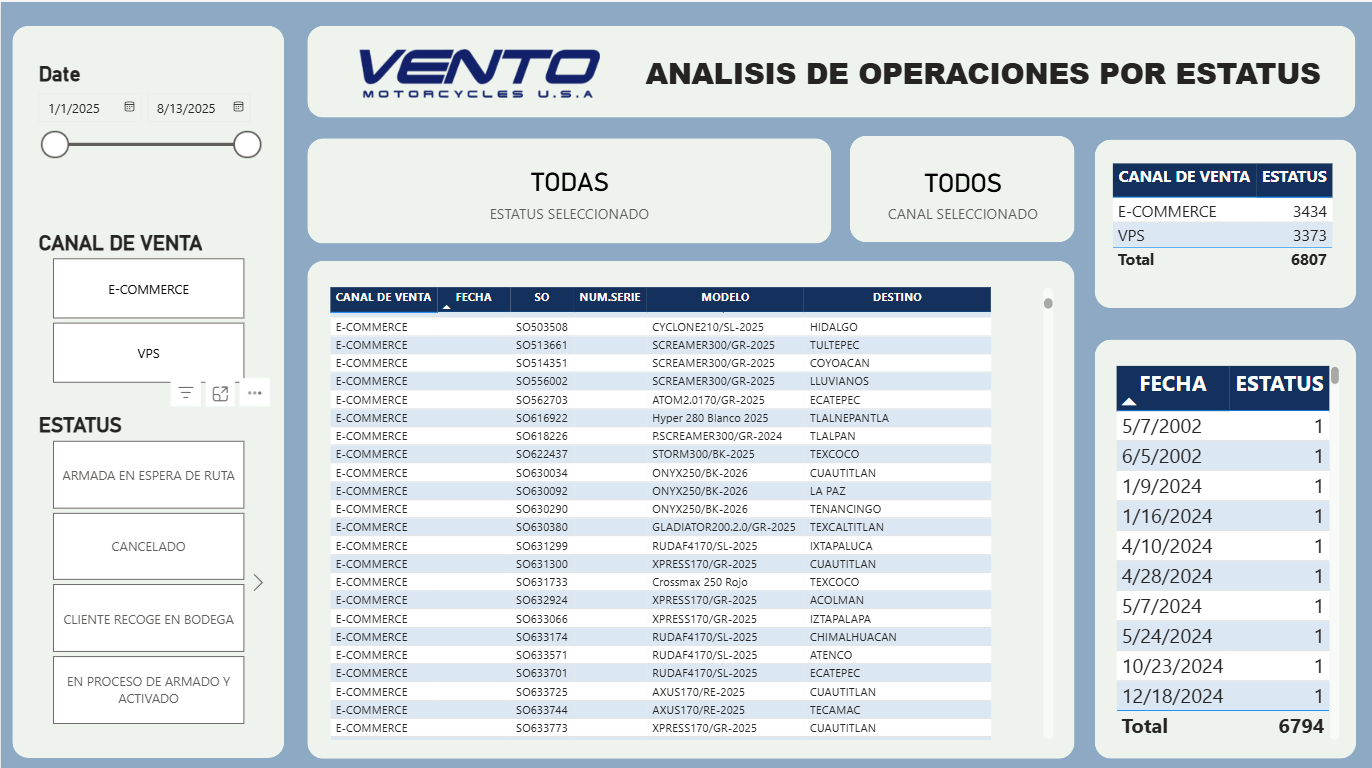
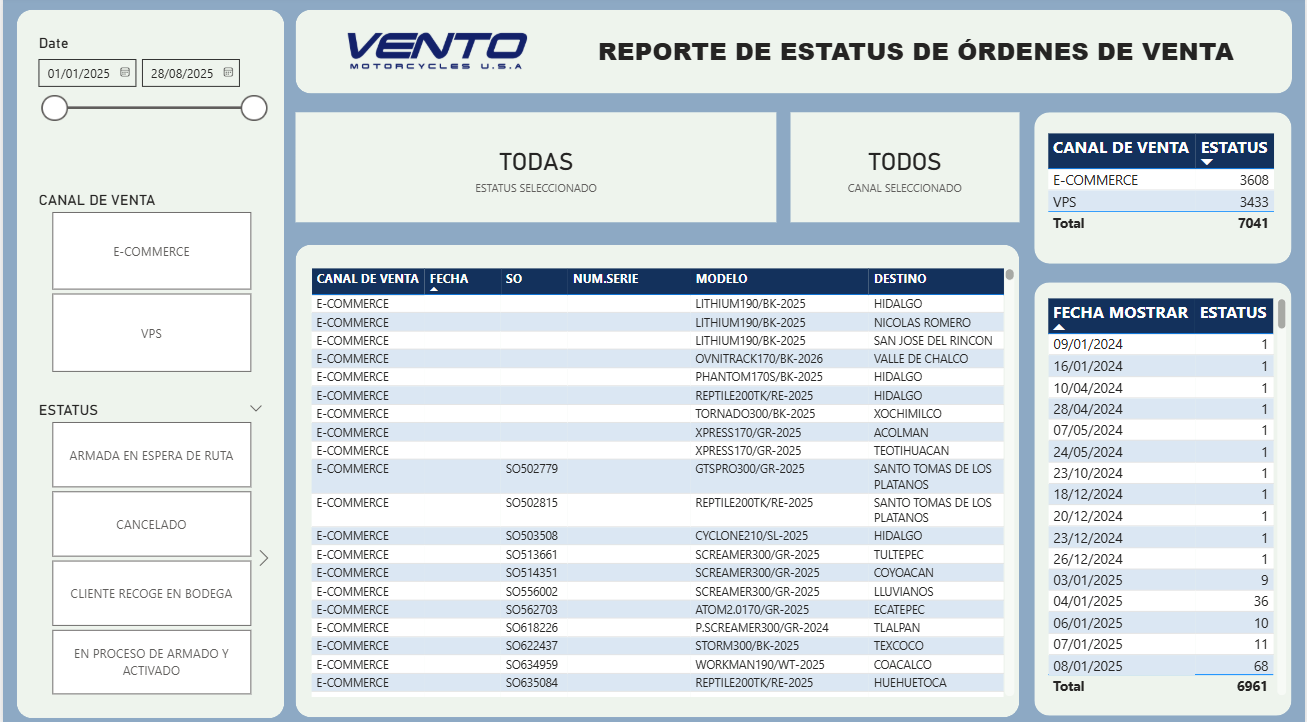
Actualizado

diff --git a/Menu/Menu Principal/indicadores.html b/Menu/Menu Principal/indicadores.html
@@ -107,7 +107,7 @@
         <div class="custom-card">
             <img src="../../Imagenes/Informe1 - AOPE.png" alt="Imagen de ejemplo">
             <div class="card-body">
-              <h5 class="card-title">Reporte de operaciones</h5>
+              <h5 class="card-title">Reporte de estatus de órdenes de venta</h5>
               <p class="card-text">
                 Reporte que permite revisar la cantidad de ordenes de venta (SO) y su estatus, con la finalidad de darle seguimiento a los días de atraso de las unidades.
               </p>
@@ -118,7 +118,7 @@
         <!-- Reporte de ordenes de traslado por estatus-->
         <div class="custom-card">
             <div class="card-body">
-              <h5 class="card-title">Reporte de órdenes de traslado por estatus</h5>
+              <h5 class="card-title">Reporte de estatus de órdenes de traslado</h5>
               <p class="card-text">
                 Reporte que permite revisar la cantidad de ordenes de traslado (TO) y su estatus por cada CEDI (centro de distribución).
               </p>
@@ -137,6 +137,18 @@
               </p>
               <a href="https://app.powerbi.com/view?r=eyJrIjoiMDY0NmE3NTMtNjIwNS00OTZkLTkxMjUtZWFlZmFjZTEzZGI4IiwidCI6IjZhOTI1ZmE2LWE5N2ItNGY2OS04MTcyLThkN2YyYzVhNDRjNSIsImMiOjR9" target="_blank" class="btn">Visualizar reporte</a>
             </div>
+        </div>
+
+        <!-- Reporte de ordenes de traslado por estatus-->
+        <div class="custom-card">
+            <div class="card-body">
+              <h5 class="card-title">Reporte de estatus de órdenes de compra por CEDI</h5>
+              <p class="card-text">
+                Reporte que permite revisar la cantidad de ordenes de compra (PO) y el estatus en el que se encuentra, esto por cada CEDI (centro de distribución)
+              </p>
+              <a href="https://app.powerbi.com/view?r=eyJrIjoiNGE2MWJlZDYtY2FmYi00NTU3LTkyYzAtYmE4ODRmNDI1Nzc3IiwidCI6IjZhOTI1ZmE2LWE5N2ItNGY2OS04MTcyLThkN2YyYzVhNDRjNSIsImMiOjR9" target="_blank" class="btn">Visualizar reporte</a>
+            </div>
+            <img src="../../Imagenes/Informe4 - ROCCD.png" alt="Imagen de ejemplo">
         </div>
           
       </div>
